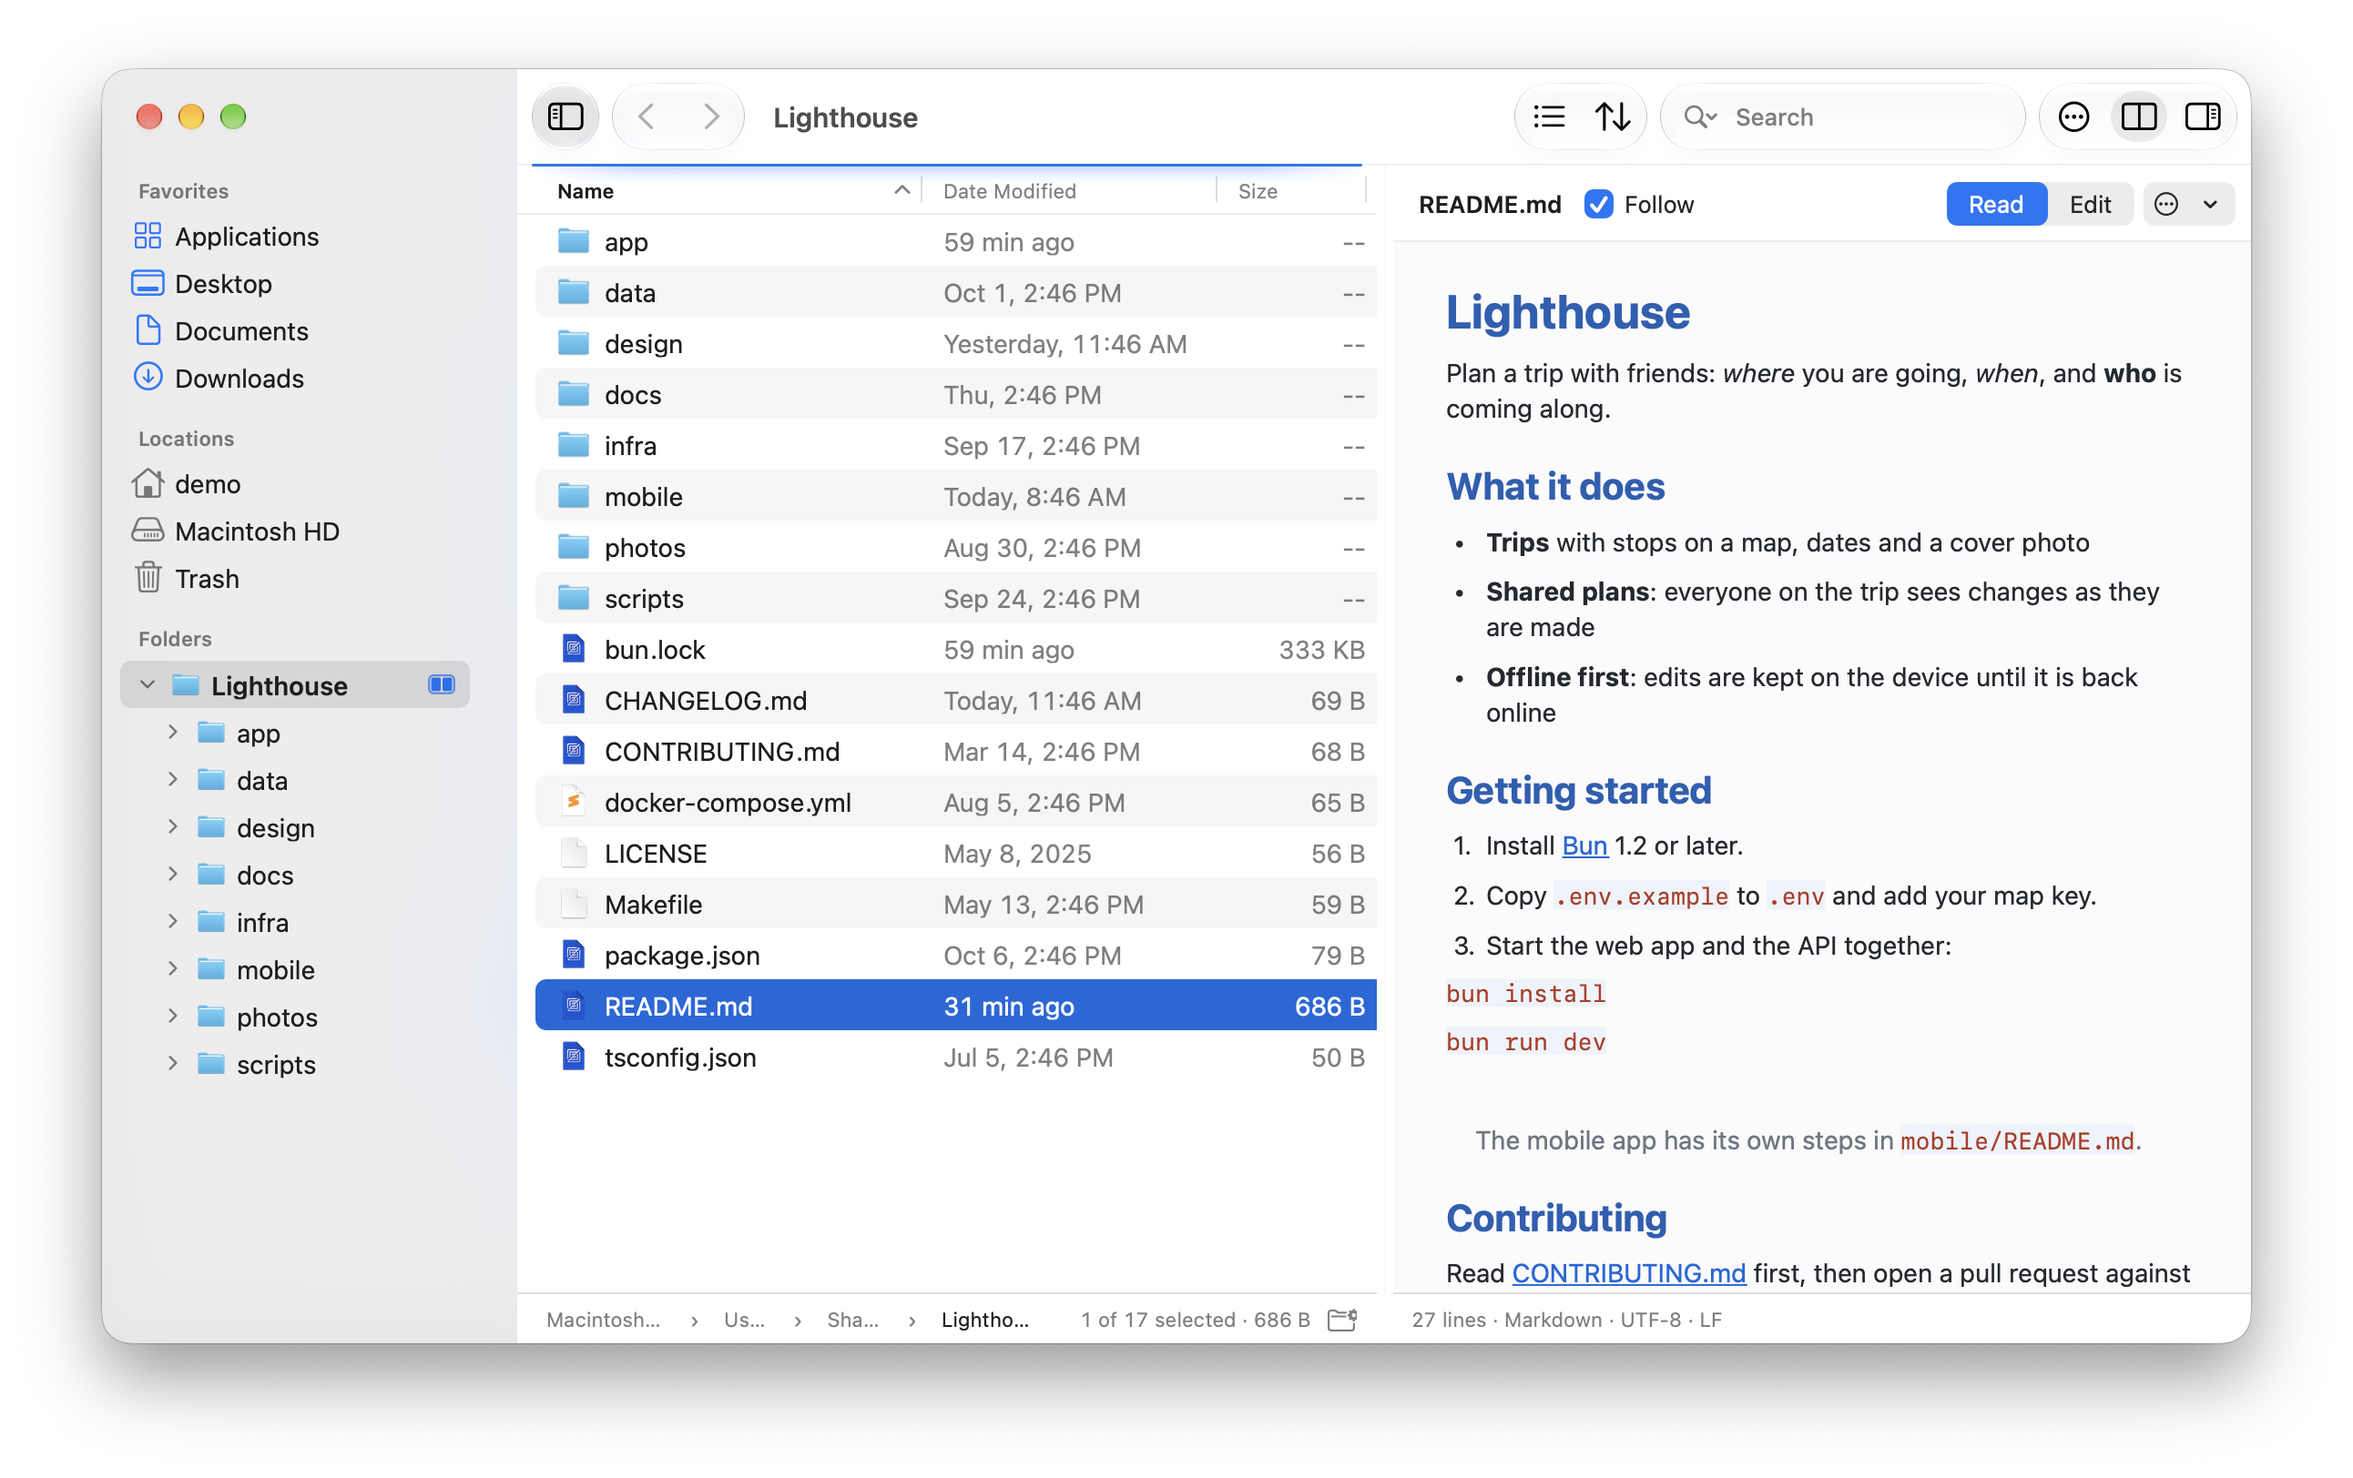
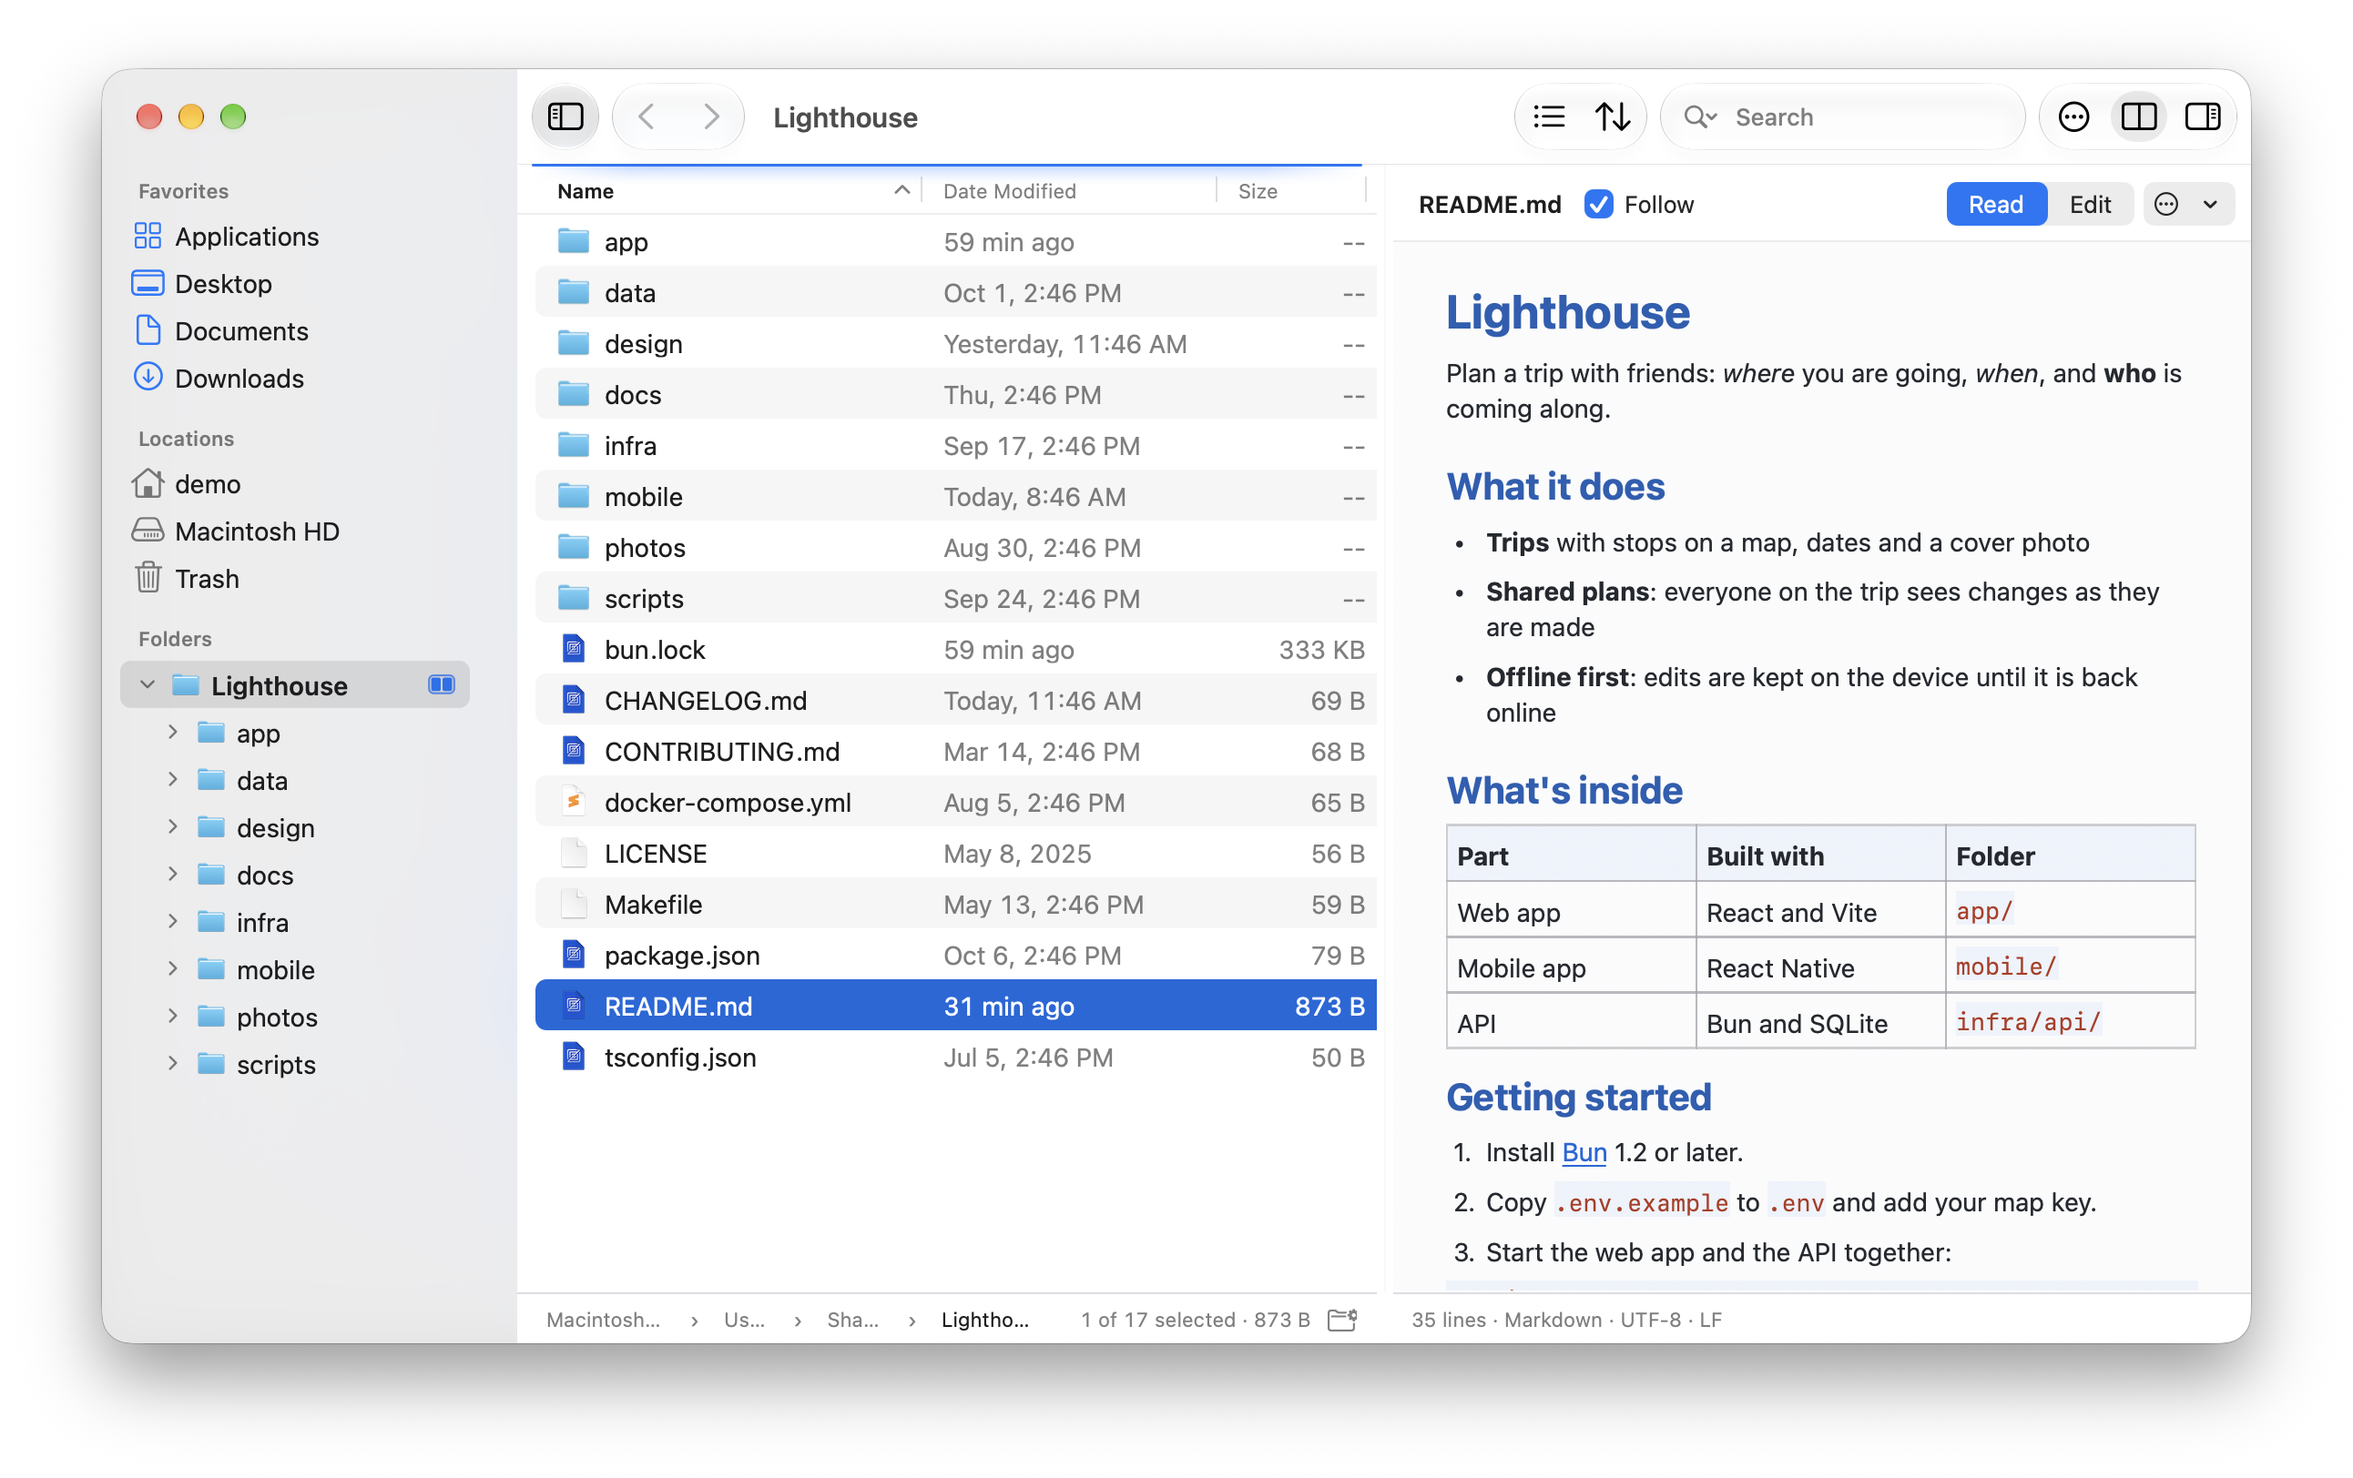
The Markdown preview draws tables as tables
A table's cells came out one under another, each a paragraph of its own:
the renderer took the innermost part, the cell, for the paragraph. Each
cell is now a paragraph in its own block of an NSTextTable at its row and
column, the header row bold on the code background, each column aligned
as the Markdown says. The Preview's text view lays out with TextKit 1,
which draws text tables.

A line break between paragraphs no longer carries a code background, link
or strikethrough: TextKit 1 paints a break's background to the end of the
line, which showed as a band after a cell or a line ending in code and
before a code block.

The demo README has a table, its picture is taken again, and the known
issue goes.

Changed region(s): [[0.6192, 0.5234, 0.8978, 0.8929], [0.8978, 0.8621, 0.9288, 0.8929]]

diff --git a/Sources/FTAppKit/TextViewer/MarkdownRendering.swift b/Sources/FTAppKit/TextViewer/MarkdownRendering.swift
@@ -2,7 +2,9 @@ import AppKit
 import FTFoundation
 
 /// Markdown as the viewer's Preview shows it: the system's parser, drawn in the viewer's theme. Nothing is loaded from
-/// the network: images show as their text, links stay links.
+/// the network: images show as their text, links stay links. A table is a table: each cell a paragraph in its own
+/// block of an `NSTextTable`, the header row bold on the code background, each column aligned as the Markdown says,
+/// which the Preview's text view draws as it lays out with TextKit 1.
 enum MarkdownRendering {
     static func render(_ markdown: String, theme: TextViewerTheme, fontSize: Double) -> NSAttributedString {
         let options = AttributedString.MarkdownParsingOptions(
@@ -16,6 +18,9 @@ enum MarkdownRendering {
         let codeBackground = NSColor(theme.currentLine)
         var previousBlock: Int?
         var previousListItem: Int?
+        var previousAttributes: [NSAttributedString.Key: Any] = [:]
+        var previousWasCell = false
+        var tables: [Int: NSTextTable] = [:]
 
         for run in parsed.runs {
             let piece = String(parsed[run.range].characters)
@@ -28,6 +33,7 @@ enum MarkdownRendering {
             paragraph.lineHeightMultiple = 1.15
             var prefix = ""
             var listDepth = 0
+            var cell: (table: Int, columns: [PresentationIntent.TableColumn], row: Int, column: Int)?
 
             for component in components {
                 switch component.kind {
@@ -55,7 +61,14 @@ enum MarkdownRendering {
                 case .thematicBreak:
                     attributes[.foregroundColor] = NSColor(theme.gutterText)
                 case .tableCell(let column):
-                    if column > 0 && previousBlock == block { prefix = "\t" }
+                    cell = (0, [], 0, column)
+                case .tableHeaderRow:
+                    cell?.row = 0
+                case .tableRow(let row):
+                    cell?.row = row
+                case .table(let columns):
+                    cell?.table = component.identity
+                    cell?.columns = columns
                 default:
                     break
                 }
@@ -65,6 +78,34 @@ enum MarkdownRendering {
                 paragraph.headIndent = indent
                 paragraph.firstLineHeadIndent = indent - 18
                 paragraph.tabStops = [NSTextTab(textAlignment: .left, location: indent)]
+            }
+            if let cell {
+                let table =
+                    tables[cell.table]
+                    ?? {
+                        let table = NSTextTable()
+                        table.numberOfColumns = max(cell.columns.count, 1)
+                        table.collapsesBorders = true
+                        tables[cell.table] = table
+                        return table
+                    }()
+                let place = NSTextTableBlock(
+                    table: table, startingRow: cell.row, rowSpan: 1, startingColumn: cell.column, columnSpan: 1)
+                place.setWidth(0.5, type: .absoluteValueType, for: .border)
+                place.setBorderColor(NSColor(theme.gutterText).withAlphaComponent(0.5))
+                place.setWidth(5, type: .absoluteValueType, for: .padding)
+                if cell.row == 0 {
+                    place.backgroundColor = codeBackground
+                    attributes[.font] = ThemeFonts.sans(fontSize + 1, .bold)
+                }
+                paragraph.textBlocks = [place]
+                paragraph.paragraphSpacing = 0
+                paragraph.alignment =
+                    switch cell.columns.indices.contains(cell.column) ? cell.columns[cell.column].alignment : .left {
+                    case .center: .center
+                    case .right: .right
+                    default: .natural
+                    }
             }
             attributes[.paragraphStyle] = paragraph
 
@@ -93,9 +134,20 @@ enum MarkdownRendering {
             }
 
             if let previousBlock, block != previousBlock {
-                result.append(NSAttributedString(string: "\n", attributes: attributes))
+                // The line break ends the paragraph before it: next to a table it is that paragraph's, so a cell's
+                // block ends with its cell, and the paragraph before a table doesn't end in the table's first cell.
+                // It carries no code background, link or strikethrough: TextKit paints a line break's background to
+                // the end of its line.
+                let nearTable = previousWasCell || cell != nil
+                var lineBreak = nearTable ? previousAttributes : attributes
+                for key in [NSAttributedString.Key.backgroundColor, .link, .strikethroughStyle] {
+                    lineBreak[key] = nil
+                }
+                result.append(NSAttributedString(string: "\n", attributes: lineBreak))
             }
             previousBlock = block
+            previousWasCell = cell != nil
+            previousAttributes = attributes
             let shown =
                 components.contains { if case .thematicBreak = $0.kind { true } else { false } }
                 ? String(repeating: "─", count: 24) : piece

diff --git a/Tests/FTAppKitTests/TextViewer/MarkdownRenderingTests.swift b/Tests/FTAppKitTests/TextViewer/MarkdownRenderingTests.swift
@@ -1,0 +1,67 @@
+import AppKit
+import FTFoundation
+import Testing
+
+@testable import FTAppKit
+
+/// The viewer's Markdown Preview.
+@MainActor
+struct MarkdownRenderingTests {
+    /// Each paragraph of the rendered text, with its text and its style.
+    private func paragraphs(_ text: NSAttributedString) -> [(text: String, style: NSParagraphStyle?, font: NSFont?)] {
+        var found: [(String, NSParagraphStyle?, NSFont?)] = []
+        let string = text.string as NSString
+        var start = 0
+        while start < string.length {
+            let range = string.paragraphRange(for: NSRange(location: start, length: 0))
+            let line = string.substring(with: range).trimmingCharacters(in: .newlines)
+            found.append(
+                (
+                    line, text.attribute(.paragraphStyle, at: range.location, effectiveRange: nil) as? NSParagraphStyle,
+                    text.attribute(.font, at: range.location, effectiveRange: nil) as? NSFont
+                ))
+            start = NSMaxRange(range)
+        }
+        return found
+    }
+
+    // A table is drawn as one: each cell a paragraph in its own block of one text table, at its row and column, the
+    // header row bold, each column aligned as the Markdown says; the paragraphs around it are in no table.
+    @Test func aTableIsDrawnAsATableOfItsRowsAndColumns() throws {
+        let markdown = "Intro\n\n| Part | Where |\n|:---|---:|\n| **Web** app | `app/` |\n| API | `infra/` |\n\nAfter"
+        let rendered = MarkdownRendering.render(markdown, theme: TextViewerTheme.light[0], fontSize: 13)
+        let found = paragraphs(rendered)
+        #expect(found.map(\.text) == ["Intro", "Part", "Where", "Web app", "app/", "API", "infra/", "After"])
+        #expect(found.first?.style?.textBlocks.isEmpty == true)
+        #expect(found.last?.style?.textBlocks.isEmpty == true)
+        let cells = try found[1...6].map { paragraph in
+            try #require(paragraph.style?.textBlocks.first as? NSTextTableBlock, "\(paragraph.text) is in a table")
+        }
+        #expect(Set(cells.map { ObjectIdentifier($0.table) }).count == 1, "one table")
+        #expect(cells[0].table.numberOfColumns == 2)
+        #expect(cells.map(\.startingRow) == [0, 0, 1, 1, 2, 2])
+        #expect(cells.map(\.startingColumn) == [0, 1, 0, 1, 0, 1])
+        #expect(found[1...6].map { $0.style?.alignment } == [.natural, .right, .natural, .right, .natural, .right])
+        let bold = { (font: NSFont?) in font.map { NSFontManager.shared.traits(of: $0).contains(.boldFontMask) } }
+        #expect(bold(found[1].font) == true && bold(found[2].font) == true, "the header row is bold")
+        #expect(bold(found[5].font) == false, "a body cell isn't")
+    }
+
+    // A line break between paragraphs carries no code background, link or strikethrough, which TextKit would paint
+    // to the end of the line: after a paragraph ending in code, a cell in code, a link, and before a code block.
+    @Test func noLineBreakCarriesAnInlineBackground() {
+        let markdown =
+            "Run `make`\n\n| A |\n|---|\n| `x` |\n\n[link](https://example.com)\n\nThen:\n\n```sh\nbun install\n```"
+        let rendered = MarkdownRendering.render(markdown, theme: TextViewerTheme.light[0], fontSize: 13)
+        let string = rendered.string as NSString
+        for ending in ["make", "x", "link", "Then:"] {
+            let found = string.range(of: ending)
+            let index = NSMaxRange(found)
+            let isBreak = found.location != NSNotFound && index < string.length && string.character(at: index) == 10
+            #expect(isBreak, "a line break after \(ending)")
+            guard found.location != NSNotFound, index < string.length else { continue }
+            #expect(rendered.attribute(.backgroundColor, at: index, effectiveRange: nil) == nil, "after \(ending)")
+            #expect(rendered.attribute(.link, at: index, effectiveRange: nil) == nil, "after \(ending)")
+        }
+    }
+}

diff --git a/Sources/FTAppKit/TextViewer/TextViewerController.swift b/Sources/FTAppKit/TextViewer/TextViewerController.swift
@@ -70,7 +70,8 @@ final class TextViewerController: NSViewController, NSTextViewDelegate {
     private var ruler: LineNumberRuler!
     private var coloring: SyntaxColoring!
     private let previewScroll = NSScrollView()
-    private let previewView = NSTextView()
+    /// TextKit 1, as a Markdown table is drawn with `NSTextTable`, which TextKit 2 doesn't lay out.
+    private let previewView = NSTextView(usingTextLayoutManager: false)
     let quickLook = QuickLookHost()
     private let message = ViewerMessageView()
     /// A picture is drawn by the viewer itself; other files that aren't text by Quick Look's view.

diff --git a/docs/features.md b/docs/features.md
@@ -106,7 +106,7 @@ The [README](../README.md) is about what is different from Finder. This page lis
 - **At 1 preview at a time** the file on screen is the selected one, so Space, the Info panel and Move to Trash act on what you see.
 - **Quick Look** on Space and ⌘Y, in every view.
 <p align="center">
-  <img src="screenshots/markdown-pane.png" alt="A project folder with README.md selected, and the pane beside it showing the Markdown as it reads, with headings, lists, a link and a code block" width="900">
+  <img src="screenshots/markdown-pane.png" alt="A project folder with README.md selected, and the pane beside it showing the Markdown as it reads, with headings, a list, a table and numbered steps" width="900">
 </p>
 
 - **Open in Viewer (⌘E)** shows a file's text in place of the folder, with colors for about 60 languages and formats, to read or to edit and save, in Read or Edit as you last chose. It's a step of Back and Forward, so Back returns to the folder with the file selected, and the viewer's bar steps to the next and previous file.

diff --git a/docs/state/known-issues.md b/docs/state/known-issues.md
@@ -126,5 +126,4 @@ If this is picked up: the disk says whether it keeps attributes this way (`getat
 - **Over 50 MB a file isn't shown**, and over 10 MB its text has no colors. Reading a large file a page at a time is for later.
 - **Line endings are made one kind on Save**: a file that mixes them is written with the kind most of its lines have.
 - **Markdown has Source and Preview, not both side by side**, and HTML, CSV and SVG have no preview of their own.
-- **The Markdown preview draws no tables** (2026-11-21, seen taking the README's pictures): a table's cells come out one under another, each a paragraph of its own, header and pipes gone.
 - **The colors come from the app's own lexer**, which knows keywords, strings, comments and numbers, not the grammar: a regular expression in JavaScript or a here-document in a shell script is colored as the code around it.

diff --git a/tools/capture/readme/files/README.md b/tools/capture/readme/files/README.md
@@ -8,6 +8,14 @@ Plan a trip with friends: *where* you are going, *when*, and **who** is coming a
 - **Shared plans**: everyone on the trip sees changes as they are made
 - **Offline first**: edits are kept on the device until it is back online
 
+## What's inside
+
+| Part | Built with | Folder |
+|:---|:---|:---|
+| Web app | React and Vite | `app/` |
+| Mobile app | React Native | `mobile/` |
+| API | Bun and SQLite | `infra/api/` |
+
 ## Getting started
 
 1. Install [Bun](https://bun.sh) 1.2 or later.
